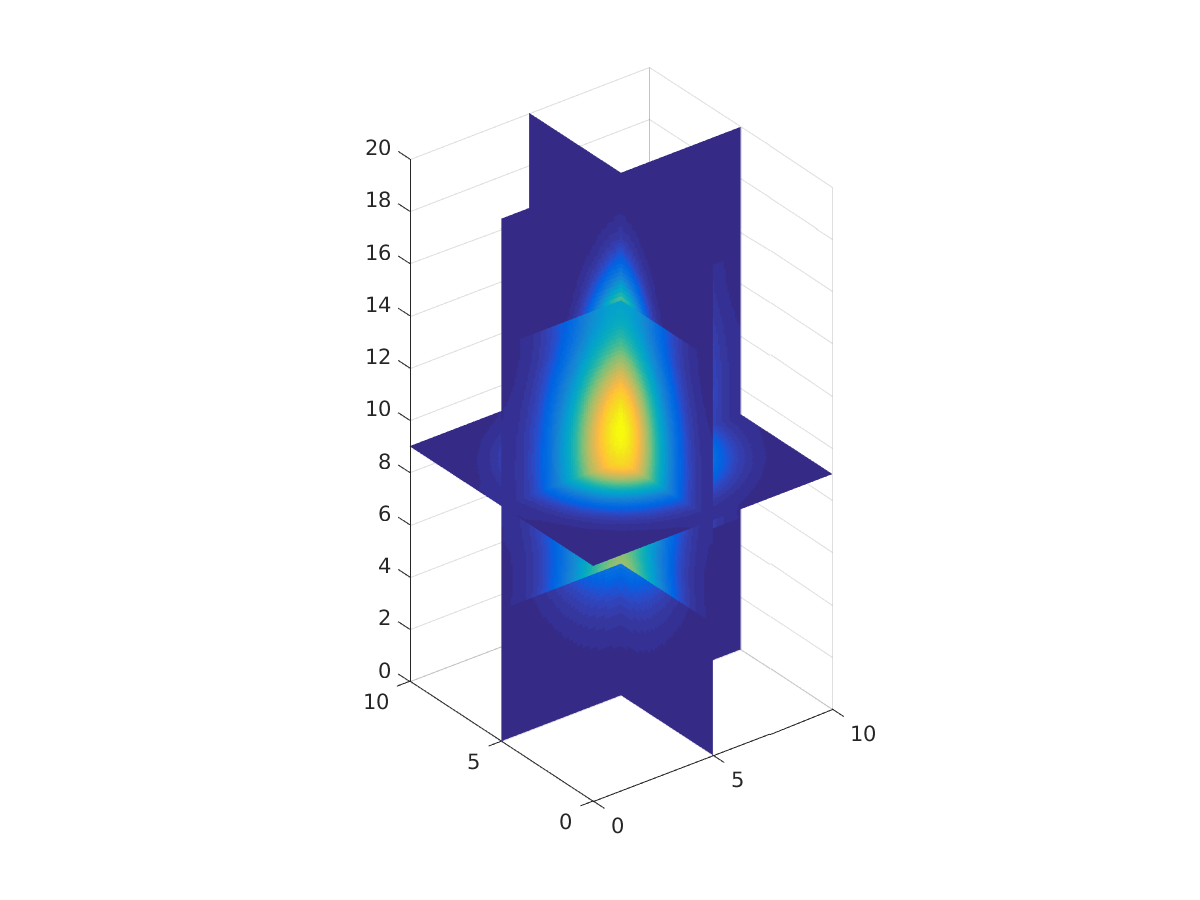
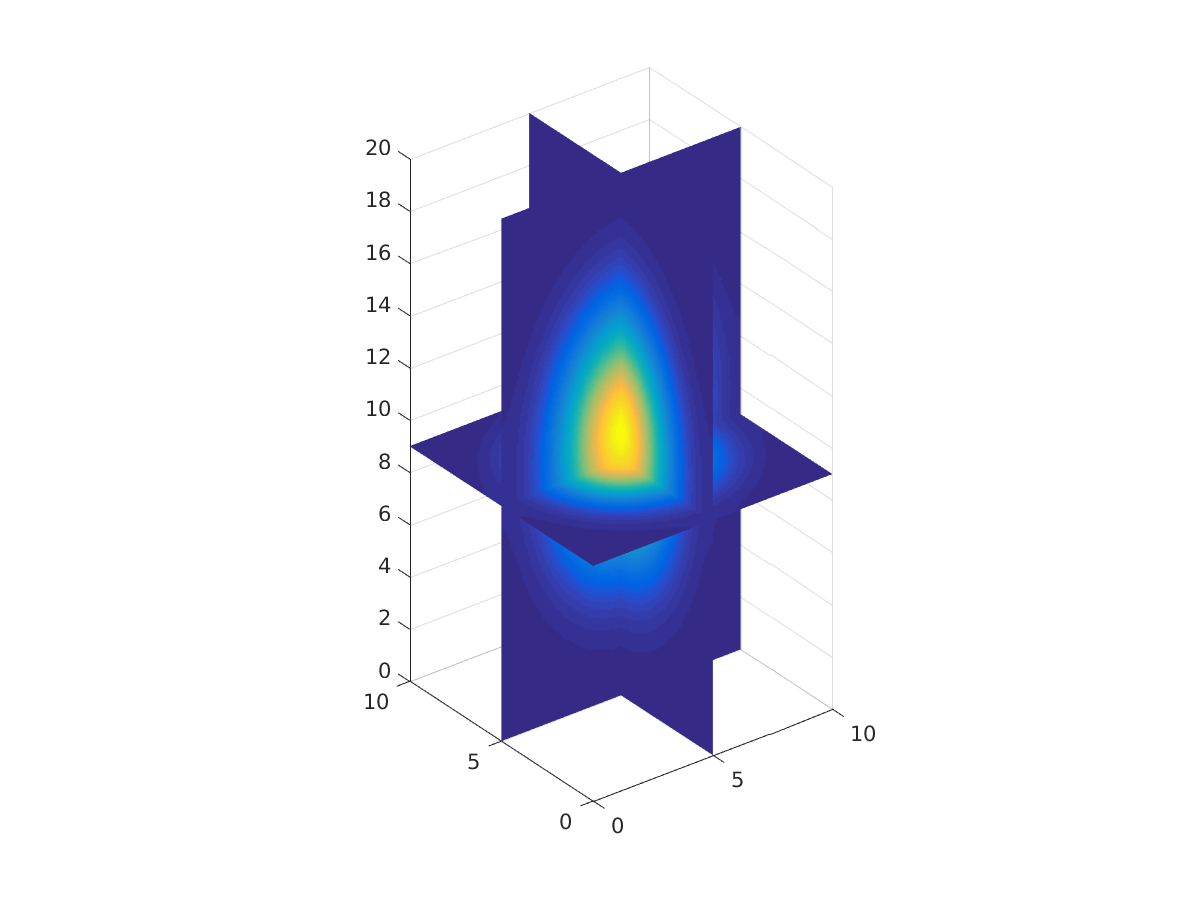
bug in scattering function fixed

Changed region(s): [[0.4317, 0.28, 0.5858, 0.4044], [0.4317, 0.5911, 0.5858, 0.6844]]

diff --git a/MPI/heatEquation3d_domainDecomp3d/heat3d.cpp b/MPI/heatEquation3d_domainDecomp3d/heat3d.cpp
@@ -99,6 +99,17 @@ void Manage_Memory(int phase, dmn domain, real **h_u, real **t_u, real **t_un){
 void Call_IC(const int IC, real * __restrict u0){
   int i, j, k, o; const int XY=NX*NY;
   switch (IC) {
+  case 0: { /* for verification only! */
+    for (k = 0; k < NZ; k++) {
+      for (j = 0; j < NY; j++) {
+	for (i = 0; i < NX; i++) {
+	  // set all domain's cells equal to 0.1
+	  o = i+NX*j+XY*k;  u0[o] = o;
+	}
+      }
+    }
+    break;
+  }
   case 1: {
     for (k = 0; k < NZ; k++) {
       for (j = 0; j < NY; j++) {
@@ -150,11 +161,15 @@ void Save_Results(real *u){
   }
 }
 
-void Print(real *data, int nx, int ny) {    
-  printf("-- Memory --\n");
-  for (int i=0; i<ny; i++) {
-    for (int j=0; j<nx; j++) {
-      printf("%1.2f ", data[i*nx+j]);
+void Print(real *data, int nx, int ny, int nz) {    
+  printf("-- Memory --\n"); int xy=nx*ny;
+  for (int k=0; k<nz; k++) {
+    printf("-- layer %d --\n",k);
+    for (int j=0; j<ny; j++) {
+      for (int i=0; i<nx; i++) {
+	printf("%3.0f ", data[i+nx*j+xy*k]);
+      }
+      printf("\n");
     }
     printf("\n");
   }
@@ -206,39 +221,36 @@ void Set_NeumannBC(dmn domain, real *u, const char letter){
 }
 
 void Manage_Comms(dmn domain, MPI_Comm Comm3d, MPI_Datatype xySlice, MPI_Datatype yzSlice, MPI_Datatype xzSlice, real *u) {
-  const int nx = domain.nx;
-  const int ny = domain.ny;
-  const int nz = domain.nz;
   const int n = R+domain.nx+R, m=(domain.nx+2*R)*(domain.ny+2*R); // lengths 
   
   // Impose BCs!
   if (domain.rx==  0 ) Set_NeumannBC(domain, u,'W'); 
   if (domain.rx==SX-1) Set_NeumannBC(domain, u,'E'); 
   if (domain.ry==  0 ) Set_NeumannBC(domain, u,'S'); 
-  if (domain.ry==SY-1) Set_NeumannBC(domain, u,'N');
+  if (domain.ry==SY-1) Set_NeumannBC(domain, u,'N'); 
   if (domain.rz==  0 ) Set_NeumannBC(domain, u,'B'); 
-  if (domain.rz==SZ-1) Set_NeumannBC(domain, u,'T');
+  if (domain.rz==SZ-1) Set_NeumannBC(domain, u,'T'); 
     
     // Exchange xy - slices with top and bottom neighbors 
-    MPI_Sendrecv(&(u[ R+ n*R+ m*nz ]), 1, xySlice, domain.b,1, 
-		 &(u[ R+ n*R+ m*0  ]), 1, xySlice, domain.t,1, 
+    MPI_Sendrecv(&(u[ R+ n*R+ m*domain.nz ]), 1, xySlice, domain.b,1, 
+		 &(u[    R+ n*R+ m*0      ]), 1, xySlice, domain.t,1, 
 		 Comm3d, MPI_STATUS_IGNORE);
-    MPI_Sendrecv(&(u[ R+ n*R+ m*R  ]), 1, xySlice, domain.t,2, 
-		 &(u[R+n*R+m*(nz+1)]), 1, xySlice, domain.b,2, 
+    MPI_Sendrecv(&(u[    R+ n*R+ m*R      ]), 1, xySlice, domain.t,2, 
+		 &(u[R+n*R+m*(domain.nz+1)]), 1, xySlice, domain.b,2, 
 		 Comm3d, MPI_STATUS_IGNORE);
     // Exchange yz - slices with left and right neighbors 
-    MPI_Sendrecv(&(u[ nx+ n*R+ m*R ]), 1, yzSlice, domain.e,3, 
-		 &(u[ 0 + n*R+ m*R ]), 1, yzSlice, domain.w,3, 
+    MPI_Sendrecv(&(u[ domain.nx+ n*R+ m*R ]), 1, yzSlice, domain.e,3, 
+		 &(u[    0 + n*R+ m*R     ]), 1, yzSlice, domain.w,3, 
 		 Comm3d, MPI_STATUS_IGNORE);
-    MPI_Sendrecv(&(u[ R + n*R+ m*R ]), 1, yzSlice, domain.w,4, 
-    		 &(u[(nx+1)+n*R+m*R]), 1, yzSlice, domain.e,4, 
+    MPI_Sendrecv(&(u[    R + n*R+ m*R     ]), 1, yzSlice, domain.w,4, 
+    		 &(u[(domain.nx+1)+n*R+m*R]), 1, yzSlice, domain.e,4, 
 		 Comm3d, MPI_STATUS_IGNORE);
     // Exchange xz - slices with south and north neighbors 
-    MPI_Sendrecv(&(u[ R+ n*ny+ m*R ]), 1, xzSlice, domain.s,5, 
-		 &(u[ R+ n*0 + m*R ]), 1, xzSlice, domain.n,5, 
+    MPI_Sendrecv(&(u[ R+ n*domain.ny+ m*R ]), 1, xzSlice, domain.s,5, 
+		 &(u[    R+ n*0 + m*R     ]), 1, xzSlice, domain.n,5, 
 		 Comm3d, MPI_STATUS_IGNORE);
-    MPI_Sendrecv(&(u[ R+ n*R + m*R ]), 1, xzSlice, domain.n,6, 
-    		 &(u[R+n*(ny+1)+m*R]), 1, xzSlice, domain.s,6, 
+    MPI_Sendrecv(&(u[    R+ n*R + m*R     ]), 1, xzSlice, domain.n,6, 
+    		 &(u[R+n*(domain.ny+1)+m*R]), 1, xzSlice, domain.s,6, 
 		 Comm3d, MPI_STATUS_IGNORE);
 }
 
@@ -273,5 +285,5 @@ void Laplace3d(const int nx, const int ny, const int nz,
 
 void Call_Laplace(dmn domain, real **u, real **un){
   // Produce one iteration of the laplace operator
-  Laplace3d(domain.nz+2*R,domain.ny+2*R,domain.nz+2*R,domain.rx,domain.ry,domain.rz,*u,*un);
+  Laplace3d(domain.nx+2*R,domain.ny+2*R,domain.nz+2*R,domain.rx,domain.ry,domain.rz,*u,*un);
 }

diff --git a/MPI/MPI_snipets/alltogether/main7.cpp b/MPI/MPI_snipets/alltogether/main7.cpp
@@ -107,8 +107,8 @@ int main(int argc, char **argv) {
 
     /* array sizes */
     const int NX =6;
-    const int NY =4;
-    const int NZ =2;
+    const int NY =6;
+    const int NZ =12;
     const int nx =NX/SX;
     const int ny =NY/SY;
     const int nz =NZ/SZ;
@@ -184,28 +184,13 @@ int main(int argc, char **argv) {
             }
             disp += SX*(ny-1); // y-displacements
 	  }
-	  disp += SX*(ny-1)*(nz-1); // z-displacements
+	  disp += SX*NY*(nz-1); // z-displacements
         } 
     }
     
     // scatter pieces of the big data array 
     MPI_Scatterv(bigarray, sendcounts, displs, myGlobal, 
 		 subarray, 1, myLocal, ROOT, Comm3d);
-		 /*
-    // Exchange x - slices with top and bottom neighbors 
-    MPI_Sendrecv(&(subarray[  ny  *(nx+2*R)+1]), 1, xSlice, nbrs[UP]  , 1, 
-		 &(subarray[  0   *(nx+2*R)+1]), 1, xSlice, nbrs[DOWN], 1, 
-		 Comm2d, MPI_STATUS_IGNORE);
-    MPI_Sendrecv(&(subarray[  1   *(nx+2*R)+1]), 1, xSlice, nbrs[DOWN], 2, 
-		 &(subarray[(ny+1)*(nx+2*R)+1]), 1, xSlice, nbrs[UP]  , 2, 
-		 Comm2d, MPI_STATUS_IGNORE);
-    // Exchange y - slices with left and right neighbors 
-    MPI_Sendrecv(&(subarray[1*(nx+2*R)+  nx  ]), 1, ySlice, nbrs[RIGHT],3, 
-		 &(subarray[1*(nx+2*R)+   0  ]), 1, ySlice, nbrs[LEFT] ,3, 
-		 Comm2d, MPI_STATUS_IGNORE);
-    MPI_Sendrecv(&(subarray[1*(nx+2*R)+   1  ]), 1, ySlice, nbrs[LEFT] ,4, 
-    		 &(subarray[1*(nx+2*R)+(nx+1)]), 1, ySlice, nbrs[RIGHT],4, 
-		 Comm2d, MPI_STATUS_IGNORE);*/
         
     // every processor prints the subarray
     for (int p=0; p<size; p++) {

diff --git a/MPI/heatEquation3d_domainDecomp3d/heat3d.h b/MPI/heatEquation3d_domainDecomp3d/heat3d.h
@@ -7,7 +7,7 @@
 #define DEBUG 0 // Display all error messages
 #define NX 128 // number of cells in the x-direction
 #define NY 128 // number of cells in the y-direction
-#define NZ 128 // number of cells in the z-direction
+#define NZ 256 // number of cells in the z-direction
 #define L 10.0 // domain length
 #define W 10.0 // domain width
 #define H 20.0 // domain width
@@ -49,7 +49,7 @@
 /* MPI Grid size */
 #define SX 2 // size in x
 #define SY 2 // size in y
-#define SZ 2 // size in y
+#define SZ 2 // size in z
 
 // neighbours convention
 #define BOTTOM 0
@@ -98,5 +98,5 @@ void Manage_DataTypes(int phase, dmn domain,
 		      MPI_Datatype *myGlobal, MPI_Datatype *myLocal);
 void Call_Laplace(dmn domain, real **t_u, real **t_un);
 void Call_IC(int IC, real *h_u);
-void Print(real *h_u, int nx, int ny);
+void Print(real *h_u, int nx, int ny, int nz);
 void Save_Results(real *h_u);

diff --git a/MPI/heatEquation3d_domainDecomp3d/main.cpp b/MPI/heatEquation3d_domainDecomp3d/main.cpp
@@ -118,7 +118,7 @@ int main ( int argc, char *argv[] ) {
 	}
 	disp += SX*(ny-1); // y-displacements
       }
-      disp += SX*(ny-1)*(nz-1); // z-displacements
+      disp += SX*NY*(nz-1); // z-displacements
     } 
   }
 
@@ -152,19 +152,20 @@ int main ( int argc, char *argv[] ) {
 	printf("-- layer %d --\n",k);
 	for (j=0; j<ny+2*R; j++) {
 	  putchar('|');
-	  for (i=0; i<nx+2*R; i++) printf("%1.1f ",t_u[i+(nx+2*R)*j+(nx+2*R)*(ny+2*R)*k]);
+	  for (i=0; i<nx+2*R; i++) printf("%3.0f ",t_u[i+(nx+2*R)*j+(nx+2*R)*(ny+2*R)*k]);
 	  printf("|\n");
 	}
 	printf("\n");
       }
     }
     MPI_Barrier(Comm3d);
-  }*/
+    }*/
 
   // gather all pieces into the big data array
   MPI_Gatherv(t_u, 1, myLocal, h_u, sendcounts, displs, myGlobal, ROOT, Comm3d);
  
   // save results to file
+  //if (rank==0) Print(h_u,NX,NY,NZ);
   if (rank==ROOT) Save_Results(h_u); 
 
   // Free MPI types

diff --git a/MPI/heatEquation2d_domainDecomp2d/heat2d.cpp b/MPI/heatEquation2d_domainDecomp2d/heat2d.cpp
@@ -175,14 +175,14 @@ void Set_DirichletBC(dmn domain, real *u, const char letter){
 
   switch (letter) {
   case 'B': { /* bottom BC */
-    real u_bl = 0.7f;
-    real u_br = 1.0f;
+    real u_bl = 0.7;
+    real u_br = 1.0;
     int j = R;
     for (int i = 0; i < domain.nx; i++) u[i+R+n*j] = u_bl + (u_br-u_bl)*(i+xo)/(NX-1); break;
   }
   case 'T': { /* top BC */
-    real u_tl = 0.7f;
-    real u_tr = 1.0f;
+    real u_tl = 0.7;
+    real u_tr = 1.0;
     int j = domain.ny;
     for (int i = 0; i < domain.nx; i++) u[i+R+n*j] = u_tl + (u_tr-u_tl)*(i+xo)/(NX-1); break;
   }

diff --git a/MPI/MPI_snipets/alltogether/main8.cpp b/MPI/MPI_snipets/alltogether/main8.cpp
@@ -182,7 +182,7 @@ int main(int argc, char **argv) {
             }
             disp += SX*(ny-1); // y-displacements
 	  }
-	  disp += SX*(ny-1)*(nz-1); // z-displacements
+	  disp += SX*NY*(nz-1); // z-displacements
         } 
     }
     
